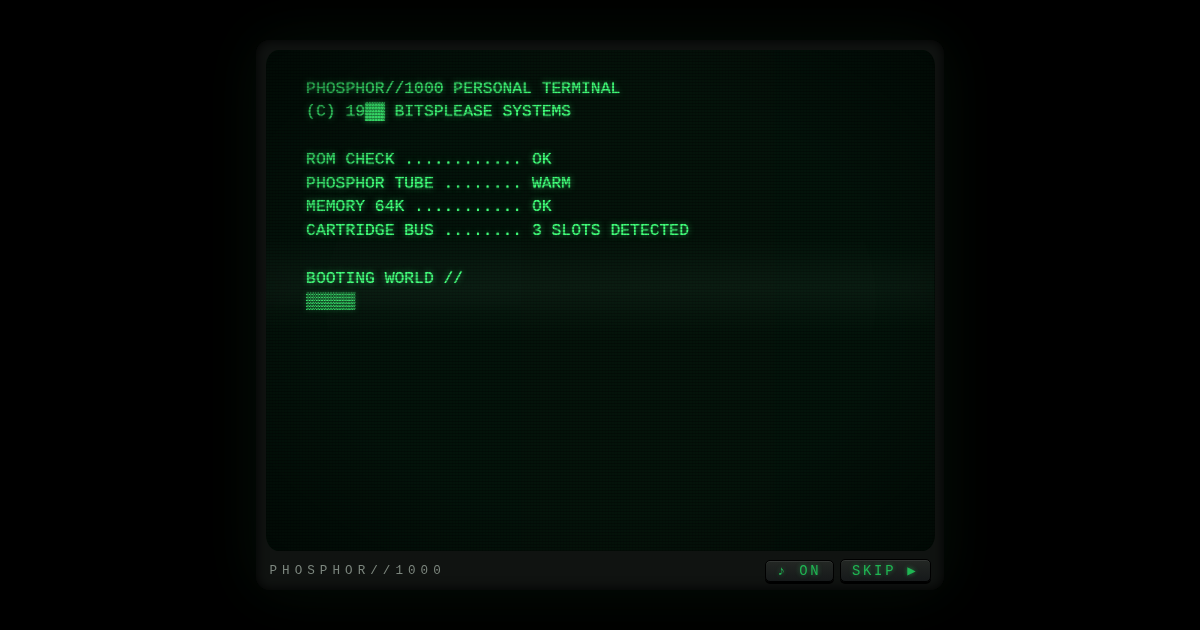
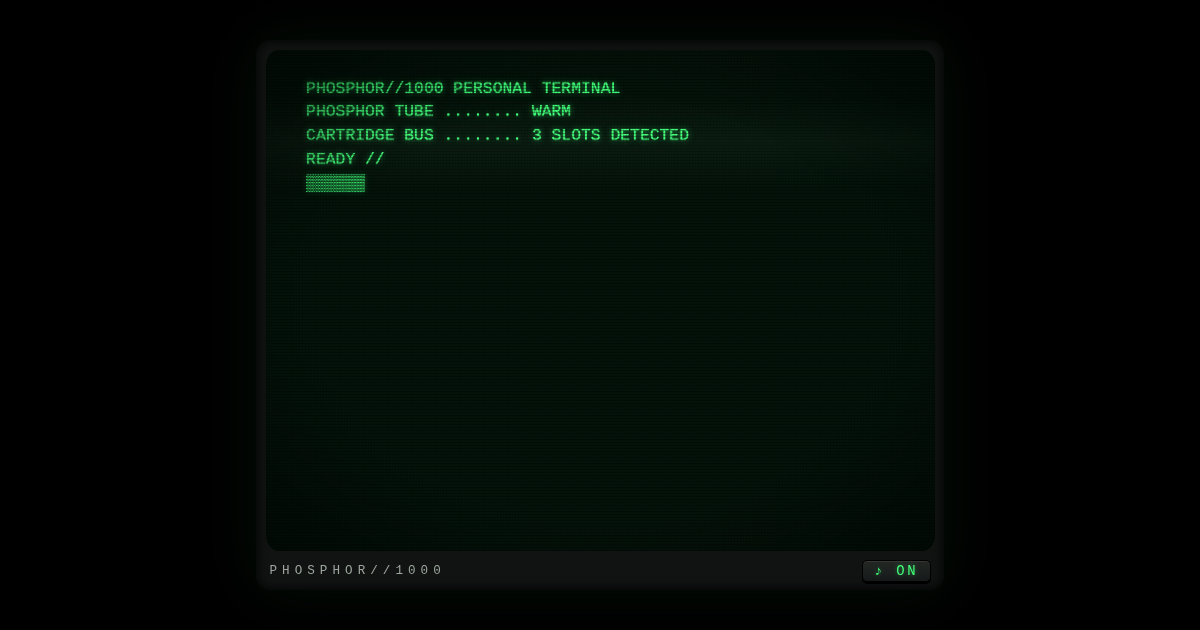
Cut the filler, put the cartridges first, fix preview framing
Flow: power-on now goes straight to the cartridge menu. The name is a
flourish you can opt into from the menu instead of a toll gate — 2.1s from
click to games on a first visit, 1.3s on a return (was 20.6s / 11.6s).

Preview framing: fit() computed the thumbnail scale once, before the grid
had settled, and only recomputed on window resize. Every preview kept a
stale scale and rendered its game far larger than the thumb, showing only
the top-left corner; the two cartridges with an index.png were unaffected
because <img> uses object-fit. Now driven by a ResizeObserver and centred,
so previews stay correct through reflow and rotation. A still that 404s
falls back to the live view instead of leaving a broken image.

Copy: the three taglines shared one two-fragment template, so each now has
its own shape. The caretaker is down from seven lines to three, and the
POST log from nine to four — only the line that carries information stays.

Removed: the SKIP button (the intro is short enough now), the two-step
"forget me" confirmation (nothing is destroyed until a new name is typed),
the empty per-cartridge spec field, the redundant ENTER hint, and an unused
colour token.

Contrast now clears WCAG AAA everywhere, including the chassis text that
only made AA: standby label 7.9:1, wordmark 7.5:1, chin buttons 13.3:1.
Link-buttons get 44px tap targets. Card titles reserve a consistent block
so taglines line up when a title wraps, the hint line lays out with gaps so
[…]

diff --git a/index.html b/index.html
@@ -24,13 +24,12 @@
 <style>
   :root{
     --ph:   #41ff7a;
-    --ph-hi:#b6ffcf;
     --ph-md:#1fb653;
     --ph-lo:#0d5a2a;
     --ph-bg:#04120a;
     --bezel:#101311;
-    --standby:#1a8f43;   /* dim, but legible on black: ~5:1 */
-    --silk:  #7c867e;    /* silkscreened chassis text: ~4.5:1 on the bezel */
+    --standby:#1fb653;   /* standby glow: 7.9:1 on black, clears AAA */
+    --silk:  #9ea69f;    /* silkscreened chassis text: 7.1:1 on the bezel */
   }
   *{ box-sizing:border-box; margin:0; padding:0; }
   html,body{ height:100%; }
@@ -102,7 +101,7 @@
     width:min(72%, 58vmin); image-rendering:pixelated;
     filter:drop-shadow(0 0 8px rgba(65,255,122,.35));
   }
-  #dialog{ min-height:4.5em; font-size:clamp(1rem, 3.4vmin, 2.1rem); line-height:1.4; }
+  #dialog{ min-height:2.8em; font-size:clamp(1rem, 3.4vmin, 2.1rem); line-height:1.4; }
   #dialog .say{ opacity:.92; }
   #nameForm{ display:none; justify-content:center; gap:.4em; font-size:clamp(1rem, 3.4vmin, 2.1rem); }
   #nameForm.show{ display:flex; }
@@ -166,25 +165,26 @@
   }
   .meta{ display:flex; flex-direction:column; gap:.15em; min-width:0; }
   .thumb iframe{
-    position:absolute; top:0; left:0; width:800px; height:600px; border:0;
+    position:absolute; top:0; left:0; border:0;
     transform-origin:top left; pointer-events:none;
-    filter:grayscale(1) sepia(1) hue-rotate(66deg) saturate(4.5) brightness(.9) contrast(1.1);
+    filter:grayscale(1) sepia(1) hue-rotate(66deg) saturate(4.5) brightness(1.05) contrast(1.25);
   }
   .thumb canvas, .thumb img{
     position:absolute; inset:0; width:100%; height:100%;
     image-rendering:pixelated; object-fit:cover; display:none;
-    filter:grayscale(1) sepia(1) hue-rotate(66deg) saturate(4.5) brightness(.95) contrast(1.1);
+    filter:grayscale(1) sepia(1) hue-rotate(66deg) saturate(4.5) brightness(1.05) contrast(1.25);
   }
   .thumb .pixgrid{
     display:block; position:absolute; inset:0; pointer-events:none;
     background:
-      repeating-linear-gradient(0deg, rgba(0,0,0,.25) 0 1px, transparent 1px 4px),
-      repeating-linear-gradient(90deg, rgba(0,0,0,.25) 0 1px, transparent 1px 4px);
+      repeating-linear-gradient(0deg, rgba(0,0,0,.16) 0 1px, transparent 1px 5px),
+      repeating-linear-gradient(90deg, rgba(0,0,0,.16) 0 1px, transparent 1px 5px);
   }
-  .card .title{ font-size:clamp(0.95rem, 2.9vmin, 1.85rem); letter-spacing:.18em; line-height:1.2; }
+  .card .title{
+    font-size:clamp(0.95rem, 2.9vmin, 1.85rem); letter-spacing:.18em; line-height:1.2;
+    text-wrap:balance; min-height:2.4em; display:flex; align-items:center; justify-content:center;
+  }
   .card .desc{ color:var(--ph-md); font-size:clamp(0.78rem, 1.9vmin, 1.15rem); letter-spacing:.08em; line-height:1.25; }
-  .card .spec{ color:var(--ph-md); font-size:clamp(0.74rem, 1.7vmin, 1rem); letter-spacing:.14em; }
-  .card .spec:empty{ display:none; }
   .card .go{ visibility:hidden; font-size:clamp(0.78rem, 2vmin, 1.2rem); animation:blink 1s steps(1) infinite; }
   .card.sel .go{ visibility:visible; }
   @keyframes blink{ 50%{ opacity:0; } }
@@ -192,13 +192,14 @@
   #more{ color:var(--ph-md); visibility:hidden; font-size:clamp(0.78rem,1.8vmin,1.05rem); }
   #more.show{ visibility:visible; animation:nudge 1.6s ease-in-out infinite; }
   @keyframes nudge{ 50%{ transform:translateY(.25em); } }
-  #menuHints{ text-align:center; }
+  #menuHints{ display:flex; flex-wrap:wrap; justify-content:center; align-items:center; gap:.2em 1.4em; }
 
   /* compact cartridges when the tube is short or narrow: thumb beside the text,
      so all three still fit instead of being cropped away */
   @media (max-width:520px), (max-height:560px){
     #cards{ grid-template-columns:1fr; gap:1.4vmin; }
     .card{ grid-template-columns:36% 1fr; gap:1.6vmin; align-items:center; text-align:left; }
+    .card .title{ min-height:0; display:block; }
   }
   @media (max-height:430px){
     #menu{ gap:.8vmin; }
@@ -229,7 +230,7 @@
   .chin-btns{ display:flex; align-items:center; gap:1vmin; }
   #chin button{
     background:linear-gradient(#232724, #16191a);
-    color:var(--ph-md); border:1px solid #000; border-radius:5px;
+    color:var(--ph); border:1px solid #000; border-radius:5px;
     padding:.15em .8em; font:inherit;
     font-size:clamp(0.7rem,2.2vmin,1.2rem); letter-spacing:.2em; cursor:pointer;
     box-shadow:0 2px 0 #000, inset 0 1px 0 rgba(255,255,255,.08);
@@ -289,6 +290,7 @@
   @media (pointer:coarse){
     #crt{ --chin:52px; }
     #chin button{ min-height:44px; padding:.35em 1em; } /* real tap targets */
+    .linky{ min-height:44px; padding:.6em .8em; }
   }
 
   /* ============ REDUCED MOTION ============ */
@@ -317,8 +319,7 @@
           autocapitalize="characters" autocomplete="off" enterkeyhint="go">
       </form>
       <div id="worldActions" hidden>
-        <div class="hint" id="worldHint">ENTER &#9166;</div>
-        <button type="button" class="linky" id="noNameBtn">or just play &rarr;</button>
+        <button type="button" class="linky" id="backBtn">back to the cartridges</button>
       </div>
     </section>
 
@@ -345,7 +346,6 @@
     <h1 id="brand">PHOSPHOR//1000</h1>
     <div class="chin-btns">
       <button id="muteBtn" type="button">&#9834; ON</button>
-      <button id="skipBtn" type="button" hidden>SKIP &#9654;</button>
       <button id="ejectBtn" type="button" hidden>&#9167; EJECT</button>
     </div>
   </div>
@@ -376,27 +376,24 @@
 <script>
 'use strict';
 /* ================= DATA ================= */
-/* `spec` prints under the tagline, e.g. '1 PLAYER · ARROWS · 3 MIN'.
-   Left blank on purpose — fill in the real controls per game. */
 const GAMES = [
   {
     id:'wandertrap', title:'WANDERTRAP',
-    desc:'do not get lost. do not get caught.',
-    spec:'',
+    desc:'Find the way out before it finds you.',
     url:'https://bitspleasebe.github.io/2d-game/',
+    /* No still yet, so the preview is the running game. Drop an index.png next to
+       the game and set it here — the other two cartridges use theirs. */
     img:null
   },
   {
     id:'bubblepop', title:'BUBBLE POP',
-    desc:'the tower grows. the bubbles burst.',
-    spec:'',
+    desc:'Pop them faster than the tower climbs.',
     url:'https://bitspleasebe.github.io/tower-game/',
     img:'https://bitspleasebe.github.io/tower-game/index.png'
   },
   {
     id:'bastionbomber', title:'BASTION BOMBER',
-    desc:'drop your payload. level the fortress.',
-    spec:'',
+    desc:'Everything down there has to go.',
     url:'https://bitspleasebe.github.io/airplane-game/',
     img:'https://bitspleasebe.github.io/airplane-game/index.png'
   }
@@ -485,9 +482,7 @@ function skipIntro(){
   if(skipAll) return;
   skipAll = true;
   waiters.forEach(fn => fn());
-  $('#skipBtn').hidden = true;
 }
-$('#skipBtn').addEventListener('click', skipIntro);
 
 /* ================= TYPEWRITER ================= */
 async function typeText(el, text, cps=28){
@@ -506,40 +501,32 @@ async function typeText(el, text, cps=28){
 const slots = () => GAMES.length + (GAMES.length === 1 ? ' SLOT' : ' SLOTS') + ' DETECTED';
 const BOOT_LINES = () => [
   'PHOSPHOR//1000 PERSONAL TERMINAL',
-  '(C) 19▓▓ BITSPLEASE SYSTEMS',
-  '',
-  'ROM CHECK ............ OK',
   'PHOSPHOR TUBE ........ WARM',
-  'MEMORY 64K ........... OK',
   'CARTRIDGE BUS ........ ' + slots(),
-  '',
-  'BOOTING WORLD //'
+  'READY //'
 ];
 const BOOT_LINES_RETURN = name => [
   'PHOSPHOR//1000 PERSONAL TERMINAL',
-  '',
-  'ROM CHECK ............ OK',
   'PHOSPHOR TUBE ........ STILL WARM',
-  'VISITOR RECORD ....... FOUND ▓ ' + name,
-  '',
-  'RESUMING WORLD //'
+  'VISITOR RECORD ....... ' + name,
+  'READY //'
 ];
 async function bootSequence(){
   show('boot');
   const el = scenes.boot;
   el.textContent = '';
   const known = store.get(LS_NAME);
-  announce(known ? 'Booting. Welcome back, ' + known : 'PHOSPHOR 1000 booting');
+  announce(known ? 'Welcome back, ' + known : 'PHOSPHOR 1000 booting');
   const lines = known ? BOOT_LINES_RETURN(known) : BOOT_LINES();
   /* a warm tube boots faster: returning visitors don't re-watch the whole POST */
-  const step = known ? 95 : 230, blocks = known ? 5 : 9;
+  const step = known ? 90 : 190, blocks = known ? 4 : 6;
   for(const line of lines){
     el.textContent += line + '\n';
     beep(700, .02, .02);
-    await pace(line === '' ? 60 : step);
+    await pace(line === '' ? 50 : step);
   }
-  for(let i=0;i<blocks;i++){ el.textContent += '▒'; beep(500+i*40,.02,.02); await pace(known ? 60 : 110); }
-  await pace(known ? 180 : 420);
+  for(let i=0;i<blocks;i++){ el.textContent += '▒'; beep(500+i*50,.02,.02); await pace(known ? 55 : 95); }
+  await pace(known ? 140 : 240);
 }
 
 /* ================= PIXEL WORLD ================= */
@@ -620,26 +607,15 @@ function askName(){
   nameInput.focus();
   setTimeout(() => nameInput.scrollIntoView({ block:'center', behavior:'smooth' }), 350);
 }
-async function worldScene(){
-  show('world');
-  if(!worldAnim) drawWorld(0);
-  const known = store.get(LS_NAME);
-  if(known){
-    /* a returning visitor came back for the cartridges, not the ceremony */
-    await speak(['you came back, ' + known + '. the cartridges are humming.']);
-    await pace(400);
-    menuScene();
-  }else{
-    await speak(['. . . b z z t . . .', 'a light. after all this time.',
-                 'someone is at the terminal.', 'WHO ARE YOU?']);
-    askName();
-  }
-}
-async function promptNameOnly(){
+/* The name is a flourish, not a toll gate: visitors reach the cartridges
+   first, and can sign in from the menu if they feel like it. */
+async function nameScene(){
   show('world');
   if(!worldAnim) drawWorld(0);
   skipAll = false;
-  await speak(['and who are you now?']);
+  const known = store.get(LS_NAME);
+  await speak(known ? ['Back again, ' + known + '. What should I call you now?']
+                    : ['Someone\u2019s at the terminal.', 'What should I call you?']);
   askName();
 }
 nameForm.addEventListener('submit', async e => {
@@ -647,7 +623,7 @@ nameForm.addEventListener('submit', async e => {
   const name = nameInput.value.trim().toUpperCase().slice(0,12);
   if(!name){
     beep(220,.12,.04);
-    await typeText(say, 'i didn’t catch that. type a name, or just play.');
+    await typeText(say, 'I didn\u2019t catch that.');
     nameInput.focus();
     return;
   }
@@ -656,16 +632,14 @@ nameForm.addEventListener('submit', async e => {
   nameForm.classList.remove('show');
   worldActions.hidden = true;
   beep(880,.08,.05); beep(1320,.1,.04);
-  await speak([name + ' . . .', 'yes. the tube hums your name.',
-               'come. the cartridges have been waiting.']);
-  await pace(400);
+  await speak(['Noted, ' + name + '.']);
+  await pace(260);
   menuScene();
 });
-$('#noNameBtn').addEventListener('click', () => {
+$('#backBtn').addEventListener('click', () => {
   nameInput.blur();
   nameForm.classList.remove('show');
   worldActions.hidden = true;
-  skipIntro();
   menuScene();
 });
 
@@ -675,36 +649,23 @@ const TOUCH = matchMedia('(pointer:coarse)').matches;
 const thumbs = [];
 function menuScene(){
   cancelAnimationFrame(worldAnim); worldAnim = null;
-  $('#skipBtn').hidden = true;
-  $('#menuSub').textContent = 'VISITOR: ' + (store.get(LS_NAME) || 'UNKNOWN');
+  const who = store.get(LS_NAME);
+  $('#menuSub').textContent = who ? 'VISITOR: ' + who : '';
   paintHints();
   show('menu');
   if(!thumbsBuilt){ buildCards(); thumbsBuilt = true; }
   selectCard(selected, { focus:false });
   requestAnimationFrame(paintMore);
-  announce('Cartridge menu. ' + GAMES.length + ' games. Use the arrow keys to choose, Enter to launch.');
+  announce('Cartridge menu. ' + GAMES.length + ' games. Arrow keys to choose, Enter to launch.');
 }
-let wipeArmed = false;
 function paintHints(){
+  const who = store.get(LS_NAME);
   const nav = TOUCH ? 'TAP A CARTRIDGE TO PLAY' : '◄ ► SELECT   ⏎ LAUNCH';
-  $('#menuHints').innerHTML = nav + ' &nbsp;·&nbsp; <button type="button" class="linky" id="newId">' +
-    (wipeArmed ? 'FORGET ME? PRESS AGAIN' : 'NEW IDENTITY' + (TOUCH ? '' : ' [F2]')) + '</button>';
-  $('#newId').addEventListener('click', newIdentity);
+  $('#menuHints').innerHTML = '<span>' + nav + '</span><button type="button" class="linky" id="newId">' +
+    (who ? 'NOT ' + who + '?' : 'ADD YOUR NAME') + '</button>';
+  $('#newId').addEventListener('click', openNameScene);
 }
-function newIdentity(){
-  if(!store.get(LS_NAME)){ promptNameOnly(); return; }
-  if(!wipeArmed){                     /* destructive: ask once, in character */
-    wipeArmed = true; paintHints(); $('#newId').focus();
-    beep(330,.06,.04);
-    setTimeout(() => { if(wipeArmed){ wipeArmed = false; paintHints(); } }, 5000);
-    return;
-  }
-  wipeArmed = false;
-  store.del(LS_NAME);
-  paintHints();
-  say.textContent = '';
-  promptNameOnly();                   /* straight to the prompt: they've seen the intro */
-}
+function openNameScene(){ say.textContent = ''; nameScene(); }
 function paintMore(){
   const box = $('#cards');
   $('#more').classList.toggle('show', box.scrollHeight > box.clientHeight + 4);
@@ -722,9 +683,8 @@ function buildCards(){
       '<span class="thumb"><span class="pixgrid"></span></span>' +
       '<span class="meta"><span class="title">' + g.title + '</span>' +
       '<span class="desc">' + g.desc + '</span>' +
-      '<span class="spec">' + g.spec + '</span>' +
       '<span class="go" aria-hidden="true">► INSERT ◄</span></span>';
-    card.setAttribute('aria-label', g.title + '. ' + g.desc + (g.spec ? ' ' + g.spec : '') + ' Launch.');
+    card.setAttribute('aria-label', g.title + '. ' + g.desc + ' Launch.');
     card.addEventListener('click', () => launch(g));
     card.addEventListener('focus', () => selectCard(i, { focus:false }));
     wrap.appendChild(card);
@@ -751,16 +711,29 @@ function selectCard(i, opts){
 function setupThumb(game, thumb){
   const pixgrid = thumb.querySelector('.pixgrid');
   /* live iframe (scaled to fit) */
+  const pw = 800, ph = 600;   /* 4:3, matching the thumb */
   const frame = document.createElement('iframe');
   frame.src = game.url; frame.tabIndex = -1; frame.setAttribute('scrolling','no');
   frame.loading = 'lazy'; frame.title = game.title + ' preview';
   frame.setAttribute('aria-hidden','true');
+  frame.style.width = pw + 'px'; frame.style.height = ph + 'px';
   thumb.insertBefore(frame, pixgrid);
-  const fit = () => { frame.style.transform = 'scale(' + (thumb.clientWidth/800) + ')'; };
-  fit(); addEventListener('resize', fit);
+  /* Fit the whole preview viewport into the thumb, centred. Driven by a
+     ResizeObserver: the thumb's size changes as the grid settles, on rotation and
+     when the scrollbar appears, and a scale computed once goes stale — which is
+     what cropped the preview to its top-left corner. */
+  const fit = () => {
+    const w = thumb.clientWidth, h = thumb.clientHeight;
+    if(!w || !h) return;
+    const k = Math.min(w / pw, h / ph);
+    frame.style.transform = 'translate(' + ((w - pw * k) / 2) + 'px,' +
+      ((h - ph * k) / 2) + 'px) scale(' + k + ')';
+  };
+  new ResizeObserver(fit).observe(thumb);
+  fit();
   /* pixelation canvas */
   const cv = document.createElement('canvas');
-  cv.width = 96; cv.height = 72;
+  cv.width = 128; cv.height = 96;
   const cx = cv.getContext('2d', { willReadFrequently:true });
   thumb.insertBefore(cv, pixgrid);
   /* static fallback image */
@@ -768,6 +741,10 @@ function setupThumb(game, thumb){
   if(game.img){
     img = document.createElement('img');
     img.src = game.img; img.alt = '';
+    img.addEventListener('error', () => {   /* missing still: show the live game instead */
+      img.remove(); img = null;
+      if(dead) fallback();
+    });
     thumb.insertBefore(img, pixgrid);
   }
   let darkCount = 0, dead = false, captured = false, live = false;
@@ -875,7 +852,7 @@ document.addEventListener('keydown', e => {
       e.preventDefault(); selectCard((selected-1+n) % n); beep(660,.04,.04);
     }
     if(e.key === 'Enter' && !e.target.closest('button')) launch(GAMES[selected]);
-    if(e.key === 'F2'){ e.preventDefault(); newIdentity(); }
+    if(e.key === 'F2'){ e.preventDefault(); openNameScene(); }
   }
 });
 /* any key or tap fast-forwards the whole intro, not one line at a time */
@@ -898,10 +875,9 @@ async function powerOn(){
   off.remove();
   zapSound();
   screen.classList.add('on');
-  $('#skipBtn').hidden = false;
-  await pace(650);
+  await pace(480);
   await bootSequence();
-  worldScene();
+  menuScene();
 }
 off.addEventListener('click', powerOn);
 document.addEventListener('keydown', function once(e){
